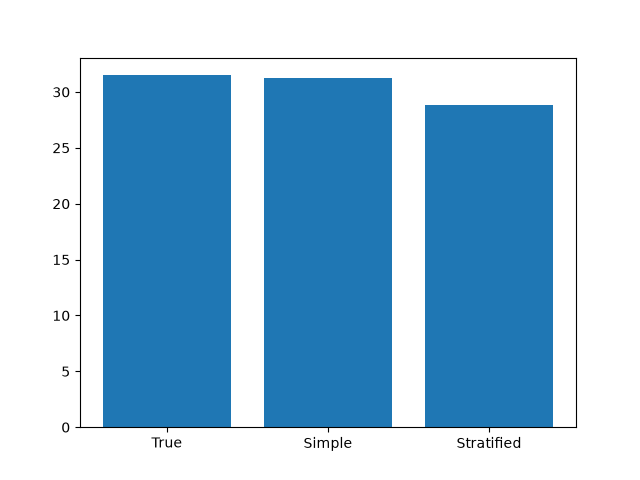
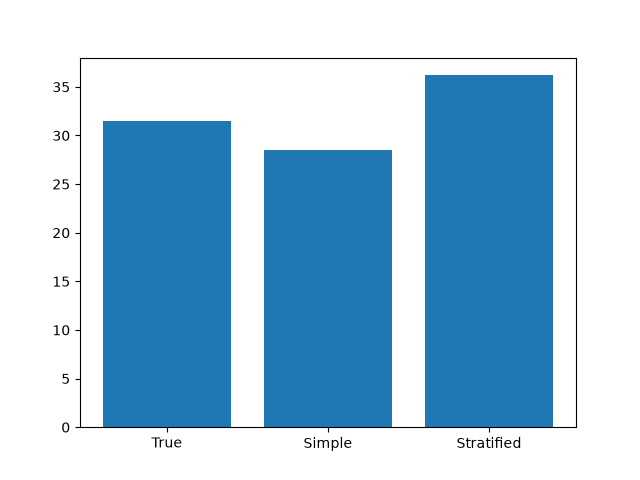
add sampling task (variant 33)

diff --git a/main.py b/main.py
@@ -1,6 +1,6 @@
 import pandas as pd
 import matplotlib.pyplot as plt
-df=pd.read_csv("population.csv.py")
+df=pd.read_csv("population.csv")
 true_mean=df["value"].mean()
 simple_mean=df.sample(n=20)["value"].mean()
 strat_mean=df.groupby("stratum")\